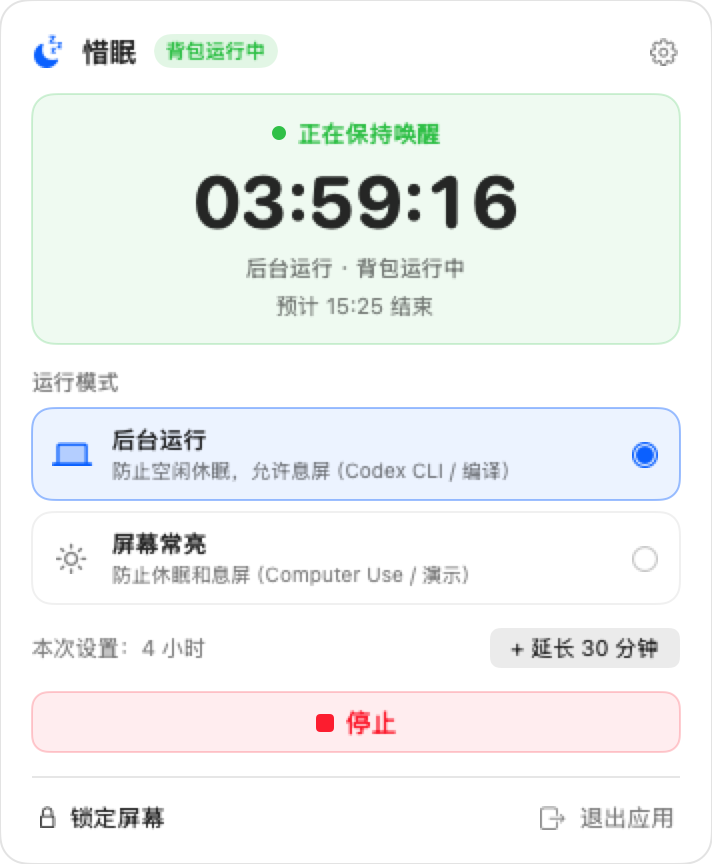
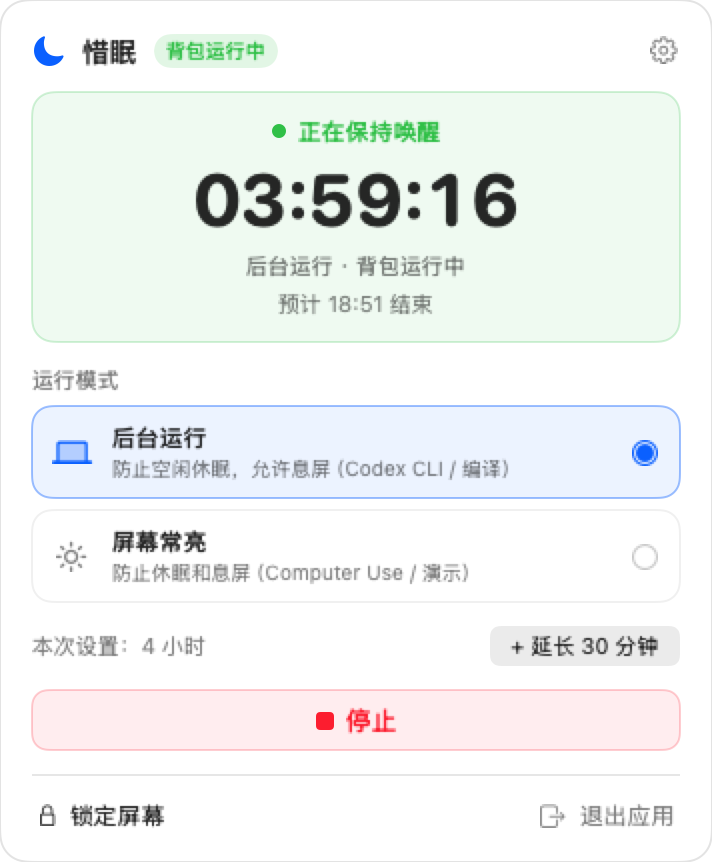
fix: keep the panel on screen and give it an opaque background
Three problems, one visible symptom.

1. Placement. Menu bar managers (Ice, Bartender) can move the status item
   into a hidden section, which parks its window at x = -9838. NSPopover
   anchors to that invisible point, AppKit clamps the result to the nearest
   display, and the panel ends up pinned against the left edge, half under
   the menu bar. The popover is now repositioned into the visible frame on
   the next runloop turn, which is when AppKit has finished placing it.

2. Background. The content view had no fill, so NSPopover's translucent
   material let the desktop and menu bar show through and the whole panel
   read as washed-out grey. The screenshots never showed this because the
   render script added a background the app itself did not have.

3. Header icon. `moon.zzz.fill` collapses into an illegible blob at 14 pt.
   Use the plain moon, which stays crisp at that size.

diff --git a/Sources/SleepSkip/AppDelegate.swift b/Sources/SleepSkip/AppDelegate.swift
@@ -341,7 +341,33 @@ final class AppDelegate: NSObject, NSApplicationDelegate, NSPopoverDelegate {
         NSApp.activate(ignoringOtherApps: true)
         popover.show(relativeTo: button.bounds, of: button, preferredEdge: .minY)
         popover.contentViewController?.view.window?.makeKey()
+        // NSPopover finishes positioning asynchronously after `show`, so correct it on the next
+        // runloop turn rather than immediately.
+        DispatchQueue.main.async { [weak self] in
+            self?.keepPopoverOnScreen()
+        }
         startDisplayTimer()
+    }
+
+    /// Menu bar managers (Ice, Bartender, …) can move our status item into a hidden section that
+    /// parks its window far off-screen. NSPopover then anchors to that invisible point and the
+    /// panel ends up clipped against the display corner. Nudge the popover window back inside the
+    /// visible frame, just under the menu bar on the right.
+    private func keepPopoverOnScreen() {
+        guard let popoverWindow = popover.contentViewController?.view.window,
+              let screen = NSScreen.main ?? NSScreen.screens.first else { return }
+
+        let visible = screen.visibleFrame
+        var frame = popoverWindow.frame
+        // Also treat "clipped against the left edge" as misplaced: that is what an off-screen
+        // anchor looks like once AppKit clamps it to the nearest display.
+        let misplaced = frame.minX < visible.minX + 4
+
+        guard misplaced else { return }
+
+        frame.origin.x = visible.maxX - frame.width - 12
+        frame.origin.y = visible.maxY - frame.height - 12
+        popoverWindow.setFrame(frame, display: true, animate: false)
     }
 
     func closePopover() {

diff --git a/Sources/SleepSkip/PopoverViews.swift b/Sources/SleepSkip/PopoverViews.swift
@@ -35,6 +35,9 @@ struct SleepSkipPopoverView: View {
         }
         .padding(16)
         .frame(width: 356)
+        // NSPopover's own background is translucent, so without an opaque fill the desktop and
+        // the menu bar behind it show through and the whole panel reads as washed-out grey.
+        .background(Color(NSColor.windowBackgroundColor))
         .fixedSize(horizontal: false, vertical: true)
     }
 
@@ -42,8 +45,9 @@ struct SleepSkipPopoverView: View {
 
     private var headerBar: some View {
         HStack(spacing: 8) {
-            Image(systemName: manager.isEffectivelyActive ? "moon.zzz.fill" : "moon")
-                .font(.system(size: 14, weight: .semibold))
+            // `moon.zzz.fill` turns into an illegible blob at 14 pt; the plain moon stays crisp.
+            Image(systemName: manager.isEffectivelyActive ? "moon.fill" : "moon")
+                .font(.system(size: 15, weight: .medium))
                 .foregroundColor(manager.isEffectivelyActive ? .accentColor : .primary)
 
             Text(t.appName)

diff --git a/Sources/SleepSkipCore/GuardMode.swift b/Sources/SleepSkipCore/GuardMode.swift
@@ -251,7 +251,7 @@ public enum CLIParser {
 public enum AppInfo {
     /// Single source of truth for the version shown in the CLI banner and the settings panel.
     /// The build script rewrites this value from the git tag, so it never drifts from the release.
-    public static let version = "1.3.1"
+    public static let version = "1.3.2"
 
     public static let repositoryURL = "https://github.com/LaiYongqiang/SleepSkip"
 }
